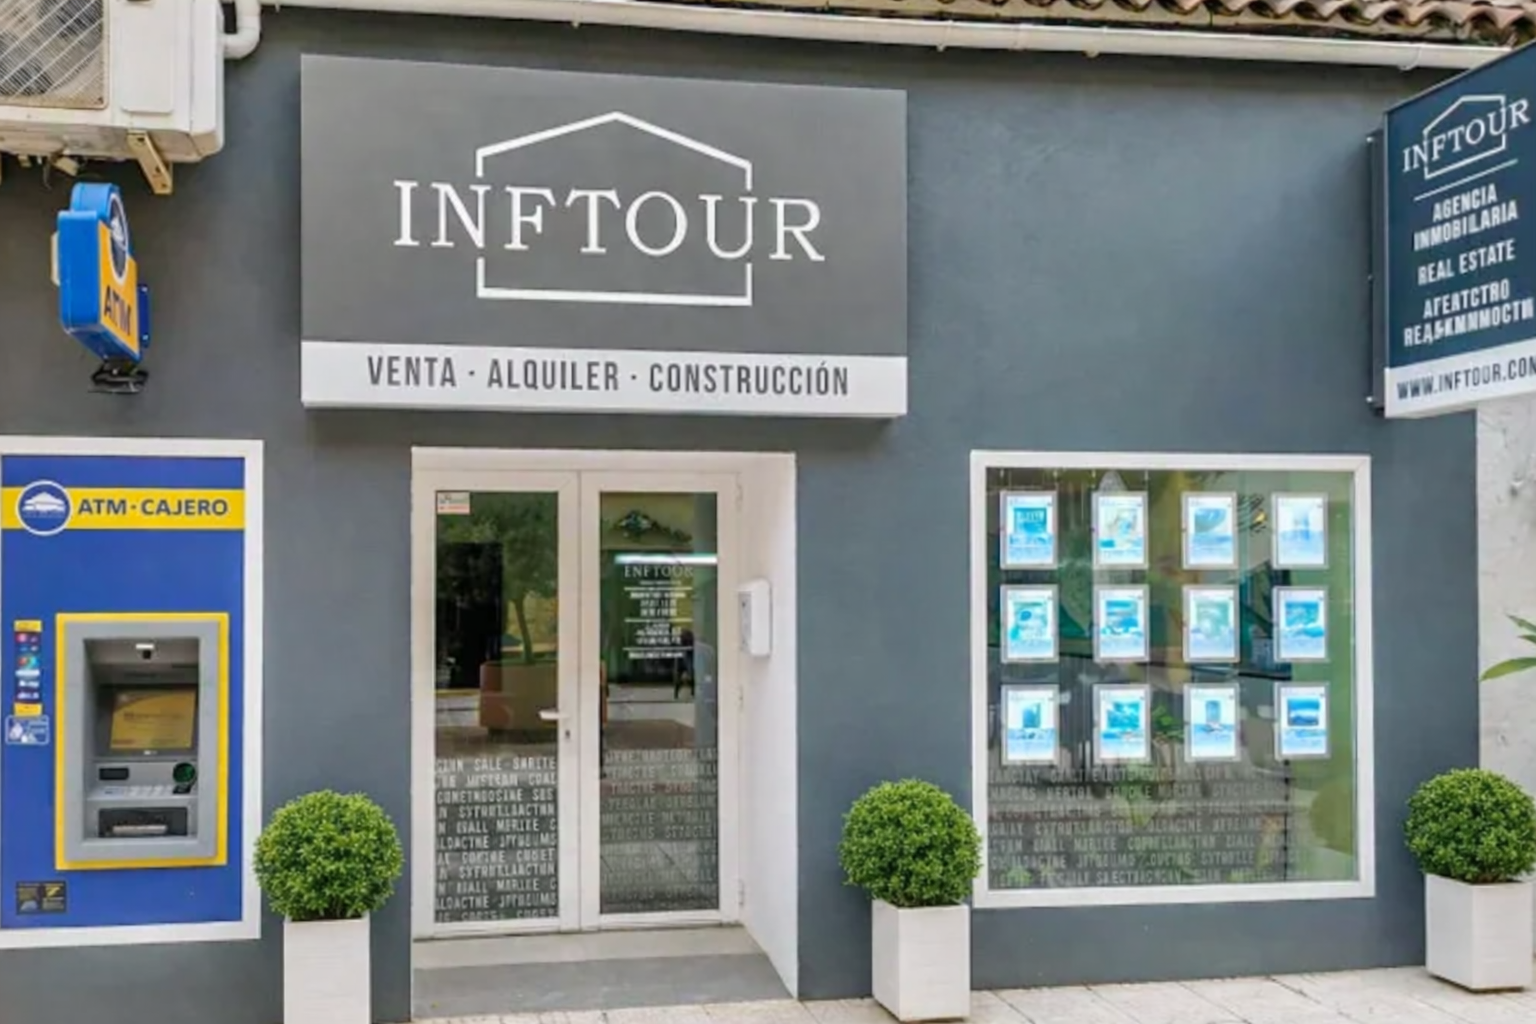
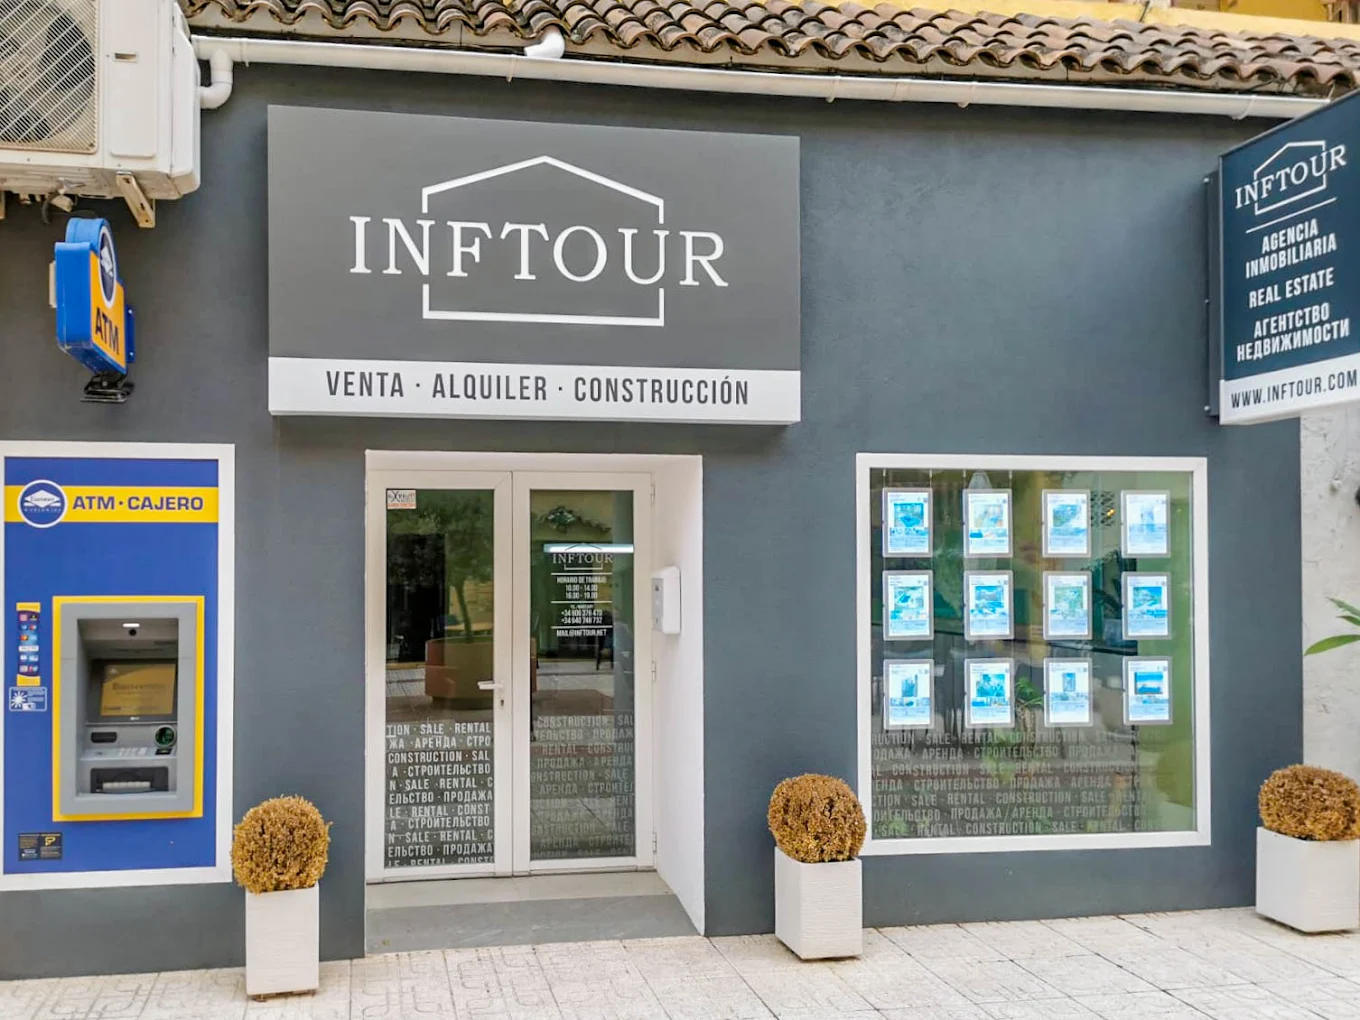
fix inftour lobby image quality

diff --git a/app/lobby/components/LobbyContent.tsx b/app/lobby/components/LobbyContent.tsx
@@ -5,7 +5,7 @@ import Link from "next/link";
 import { useState, type ReactNode } from "react";
 import { useShallow } from "zustand/react/shallow";
 import { useLangStore } from "../../lib/langStore";
-import lobbyAboutImage from "../../../ejemplos/lobby/Lobby.png";
+import lobbyAboutImage from "../pictures/lobby.png";
 import aiBgImage from "../pictures/ai_espacio.png";
 import PrivacyModal from "./PrivacyModal";
 
@@ -409,15 +409,14 @@ export default function LobbyContent() {
               {t("lobAboutDocMainTitle")}
             </h2>
             <div className="overflow-hidden text-[15px] md:text-base text-gray-600 font-light leading-relaxed">
-              <figure className="mb-5 sm:mb-3 sm:mt-1 sm:float-right sm:ml-6 w-full max-w-md mx-auto sm:mx-0 sm:w-[min(100%,280px)] sm:max-w-[40%] lg:w-[200px] lg:max-w-[200px] xl:w-[180px] xl:max-w-[180px] shrink-0 rounded-xl overflow-hidden border border-gray-100/90 shadow-md bg-white">
+              <figure className="mb-5 sm:mb-3 sm:mt-1 sm:float-right sm:ml-6 w-full max-w-[200px] mx-auto sm:mx-0 sm:w-[160px] sm:max-w-[30%] lg:w-[140px] lg:max-w-[140px] xl:w-[130px] xl:max-w-[130px] shrink-0 rounded-xl overflow-hidden border border-gray-100/90 shadow-md bg-white">
                 <Image
                   src={lobbyAboutImage}
                   alt={t("lobAboutDocMainTitle")}
                   className="w-full h-auto object-cover object-center"
-                  sizes="(max-width: 640px) min(100vw - 8rem, 28rem), (max-width: 1024px) 280px, (max-width: 1280px) 200px, 180px"
-                  quality={100}
+                  sizes="(max-width: 640px) 200px, (max-width: 1024px) 160px, (max-width: 1280px) 140px, 130px"
                   priority
-                  placeholder="blur"
+                  unoptimized
                 />
               </figure>
               {ABOUT_DOC_PARAGRAPHS.map((key) => (

diff --git a/next.config.ts b/next.config.ts
@@ -2,6 +2,7 @@ import type { NextConfig } from "next";
 
 const nextConfig: NextConfig = {
   images: {
+    qualities: [75, 100],
     remotePatterns: [
       {
         protocol: "https",
